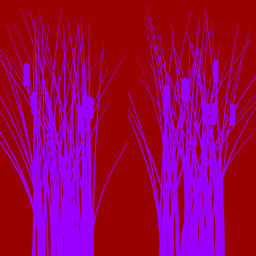
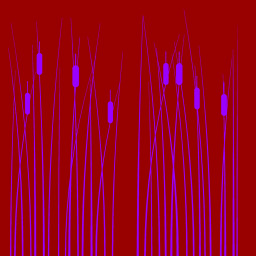
thin reed and cattail clumps, darker waxy lily pads with flowers, precipitation shader

diff --git a/tools/make_foliage.py b/tools/make_foliage.py
@@ -681,7 +681,7 @@ def fern(name, seed, src, size=1.0, fronds=13, tint=(0.62, 0.72, 0.5)):
     return m.save(name)
 
 
-def reeds(name, seed, size=1.7, cards=5):
+def reeds(name, seed, size=1.7, clumps=4):
     rng = np.random.default_rng(seed)
     T = TILE // 2
     W, H = T // 2, T
@@ -693,39 +693,44 @@ def reeds(name, seed, size=1.7, cards=5):
     for k in range(2):
         im = Image.new("RGBA", (W * 4, H * 4), (0, 0, 0, 0))
         dr = ImageDraw.Draw(im)
-        for b in range(60):
-            x0 = W * 4 * rng.uniform(0.25, 0.75)
-            lean = rng.normal(0, 0.35) * W * 4
-            top = H * 4 * rng.uniform(0.02, 0.4)
-            wdt = W * 4 * rng.uniform(0.006, 0.014)
-            col = np.array([rng.uniform(70, 105), rng.uniform(88, 118), rng.uniform(40, 62)])
-            if rng.random() < 0.3:
-                col = col * np.array([1.25, 1.05, 0.85])
+        nb = 16
+        for b in range(nb):
+            x0 = W * 4 * (0.08 + 0.84 * (b + rng.uniform(-0.3, 0.3)) / nb)
+            lean = rng.normal(0, 0.12) * W * 4
+            top = H * 4 * rng.uniform(0.02, 0.35)
+            wdt = W * 4 * rng.uniform(0.004, 0.008)
+            g = rng.uniform(0.75, 1.1)
+            col = np.array([62, 88, 40]) * g
+            if rng.random() < 0.25:
+                col = np.array([128, 116, 70]) * g
             pts = []
-            for i in range(9):
-                t = i / 8
-                cx = x0 + lean * t * t
-                cy = H * 4 - (H * 4 - top) * t
-                pts.append((cx, cy, wdt * (1 - t * 0.9)))
-            poly = [(p[0] - p[2], p[1]) for p in pts] + [(p[0] + p[2], p[1]) for p in pts[::-1]]
-            dr.polygon(poly, fill=tuple(int(c) for c in col * rng.uniform(0.8, 1.15)) + (255,))
-            if b % 11 == 0:
-                cx, cy = pts[6][0], pts[6][1]
-                dr.rounded_rectangle([cx - wdt * 2.6, cy - H * 0.3, cx + wdt * 2.6, cy + H * 0.05],
-                                     radius=int(wdt * 2), fill=(92, 58, 34, 255))
+            for i in range(10):
+                t = i / 9
+                pts.append((x0 + lean * t * t, H * 4 - (H * 4 - top) * t, wdt * (1 - t * 0.92)))
+            poly = [(p_[0] - p_[2], p_[1]) for p_ in pts] + [(p_[0] + p_[2], p_[1]) for p_ in pts[::-1]]
+            dr.polygon(poly, fill=tuple(int(c) for c in col) + (255,))
+            if b % 4 == 1:
+                cx, cy = pts[7][0], pts[7][1]
+                hw = wdt * 3.2
+                dr.rounded_rectangle([cx - hw, cy - H * 0.32, cx + hw, cy + H * 0.02], radius=int(hw), fill=(78, 48, 28, 255))
+                dr.line([(cx, cy - H * 0.32), (cx, cy - H * 0.5)], fill=(90, 80, 52, 255), width=max(1, int(wdt)))
         im = im.resize((W, H), Image.LANCZOS)
         al, nm, rm = rgba_to_maps(im, 0.6)
         tile[:, k * W:(k + 1) * W] = al
         ntile[:, k * W:(k + 1) * W] = nm
         rtile[:, k * W:(k + 1) * W] = rm
     m = Mesh()
-    for q in range(cards):
-        ang = q * math.pi / cards + rng.uniform(0, 0.3)
-        right = np.array([math.cos(ang), 0, math.sin(ang)])
-        k = int(rng.integers(0, 2))
-        s_ = size * rng.uniform(0.85, 1.15)
-        m.card(np.array([rng.normal(0, 0.12), 0, rng.normal(0, 0.12)]), right, np.array([0, 1.0, 0]), s_ * 0.5, s_,
-               (k * 0.5, 0.0, (k + 1) * 0.5, 1.0), np.array([0, 1.0, 0]), sway=1.0, rows=3)
+    for c in range(clumps):
+        base = np.array([rng.normal(0, 0.4), 0.0, rng.normal(0, 0.4)]) if c else np.zeros(3)
+        for q in range(3):
+            ang = q * math.pi / 3 + rng.uniform(0, 0.6)
+            right = np.array([math.cos(ang), 0, math.sin(ang)])
+            up = np.array([rng.normal(0, 0.08), 1.0, rng.normal(0, 0.08)])
+            up /= np.linalg.norm(up)
+            k = int(rng.integers(0, 2))
+            s_ = size * rng.uniform(0.75, 1.15)
+            m.card(base, right, up, s_ * 0.45, s_, (k * 0.5, 0.0, (k + 1) * 0.5, 1.0), np.array([0, 1.0, 0]), sway=1.0,
+                   rows=3)
     save_tile(ROOT / "loophole" / "data" / "tiles", name, tile, ntile, rtile)
     return m.save(name)
 
@@ -733,24 +738,24 @@ def reeds(name, seed, size=1.7, cards=5):
 def lilypad(name, seed, pads=5):
     rng = np.random.default_rng(seed)
     S = 512
-    im = Image.new("RGB", (S, S), (40, 80, 30))
+    im = Image.new("RGB", (S, S), (22, 44, 18))
     dr = ImageDraw.Draw(im)
     for r in range(S // 2, 0, -4):
         f = r / (S / 2)
-        dr.ellipse([S / 2 - r, S / 2 - r, S / 2 + r, S / 2 + r], fill=(int(46 + 34 * f), int(92 + 40 * f), int(30 + 12 * f)))
+        dr.ellipse([S / 2 - r, S / 2 - r, S / 2 + r, S / 2 + r], fill=(int(30 + 22 * f), int(56 + 22 * f), int(20 + 8 * f)))
     for a in np.linspace(0, 2 * math.pi, 22, endpoint=False):
-        dr.line([(S / 2, S / 2), (S / 2 + math.cos(a) * S * 0.48, S / 2 + math.sin(a) * S * 0.48)], fill=(110, 150, 70),
-                width=3)
-    dr.rectangle([0, 0, S * 0.08, S * 0.08], fill=(236, 226, 228))
+        dr.line([(S / 2, S / 2), (S / 2 + math.cos(a) * S * 0.48, S / 2 + math.sin(a) * S * 0.48)], fill=(52, 78, 34),
+                width=2)
+    dr.rectangle([0, 0, S * 0.08, S * 0.08], fill=(238, 206, 214))
     al = np.asarray(im, np.float32) / 255.0
     nm = np.zeros_like(al)
     nm[..., :2] = 0.5
     nm[..., 2] = 1.0
-    rm = np.stack([np.full(al.shape[:2], 0.3), np.zeros(al.shape[:2]), np.zeros(al.shape[:2])], -1)
+    rm = np.stack([np.full(al.shape[:2], 0.25), np.zeros(al.shape[:2]), np.zeros(al.shape[:2])], -1)
     m = Mesh()
     up = np.array([0.0, 1.0, 0.0])
     for p in range(pads):
-        c = np.array([rng.normal(0, 0.35), 0.0, rng.normal(0, 0.35)]) if p else np.zeros(3)
+        c = np.array([rng.normal(0, 0.28), p * 0.002, rng.normal(0, 0.28)]) if p else np.zeros(3)
         r = rng.uniform(0.16, 0.26)
         notch = rng.uniform(0, 2 * math.pi)
         segs = 14
@@ -761,19 +766,19 @@ def lilypad(name, seed, pads=5):
             pb = c + np.array([math.cos(a1), 0, math.sin(a1)]) * r
             uv = lambda q: (0.5 + (q[0] - c[0]) / r * 0.48 * 0.75, 0.5 + (q[2] - c[2]) / r * 0.48 * 0.75)
             m.tri([c, pb, pa], [up] * 3, [uv(c), uv(pb), uv(pa)], 1.0, [0.0] * 3)
-    fc = np.array([0.1, 0.03, 0.12])
-    for i in range(7):
-        a = i * 2 * math.pi / 7
-        d = np.array([math.cos(a), 0, math.sin(a)])
-        side = np.array([-d[2], 0, d[0]])
-        tip = fc + d * 0.07 + up * 0.06
-        q = [fc + side * 0.02, fc - side * 0.02, tip]
-        nrm = np.cross(q[1] - q[0], q[2] - q[0])
-        nrm = nrm / np.linalg.norm(nrm)
-        if nrm[1] < 0:
-            q = [q[1], q[0], q[2]]
-            nrm = -nrm
-        m.tri(q, [nrm] * 3, [(0.04, 0.04)] * 3, 1.0, [0.0] * 3)
+    for fc in (np.array([0.1, 0.03, 0.12]), np.array([-0.3, 0.03, -0.2])):
+        for i in range(7):
+            ang = i * 2 * math.pi / 7
+            d = np.array([math.cos(ang), 0, math.sin(ang)])
+            side = np.array([-d[2], 0, d[0]])
+            tip = fc + d * 0.07 + up * 0.06
+            q = [fc + side * 0.02, fc - side * 0.02, tip]
+            nrm = np.cross(q[1] - q[0], q[2] - q[0])
+            nrm = nrm / np.linalg.norm(nrm)
+            if nrm[1] < 0:
+                q = [q[1], q[0], q[2]]
+                nrm = -nrm
+            m.tri(q, [nrm] * 3, [(0.04, 0.04)] * 3, 1.0, [0.0] * 3)
     save_tile(ROOT / "loophole" / "data" / "tiles", name, al, nm, rm)
     return m.save(name)
 

diff --git a/loophole/shaders.py b/loophole/shaders.py
@@ -1964,6 +1964,57 @@ void main() {
 """
 
 
+PRECIP_VS = HEAD + CAM_U + PROJECT + """
+attribute vec4 aSeed;
+attribute vec2 aCorner;
+uniform float u_timer;
+uniform vec4 uPrec;
+uniform vec4 uWindP;
+varying vec2 vC;
+varying float vA;
+varying vec3 vW;
+void main() {
+  float snow = uPrec.y;
+  vec3 box = vec3(22.0, 14.0, 22.0);
+  float sp = mix(11.0, 1.1, snow) * (0.8 + 0.4 * aSeed.w);
+  vec3 drift = vec3(uWindP.x, 0.0, uWindP.y) * uWindP.z * mix(1.2, 0.9, snow);
+  vec3 p = aSeed.xyz * box - drift * u_timer + vec3(0.0, sp * u_timer, 0.0);
+  p.y = -p.y;
+  vec3 c0 = uCP - box * 0.5;
+  p = c0 + mod(p - c0, box);
+  if (snow > 0.5) {
+    p.x += sin(u_timer * 1.3 + aSeed.w * 30.0) * 0.35;
+    p.z += cos(u_timer * 1.1 + aSeed.x * 30.0) * 0.35;
+  }
+  vec3 vel = normalize(vec3(drift.x, -sp, drift.z));
+  vec3 toC = normalize(uCP - p);
+  vec3 side = normalize(cross(vel, toC));
+  vec3 up2 = snow > 0.5 ? normalize(cross(toC, side)) : vel;
+  float sz = snow > 0.5 ? 0.035 : 0.006;
+  float len = snow > 0.5 ? 0.035 : 0.38;
+  float show = step(aSeed.w, uPrec.x);
+  vec3 w = p + (side * aCorner.x * sz + up2 * aCorner.y * len) * show;
+  vC = aCorner;
+  vA = show * (1.0 - smoothstep(6.0, 11.0, length(p - uCP)));
+  vW = w;
+  gl_Position = project(w);
+}
+"""
+
+PRECIP_FS = HEAD + """
+uniform vec4 uPrec;
+uniform vec3 uPCol;
+varying vec2 vC;
+varying float vA;
+varying vec3 vW;
+void main() {
+  float r = uPrec.y > 0.5 ? dot(vC, vC) : vC.x * vC.x;
+  float g = (1.0 - smoothstep(0.3, 1.0, r)) * vA * (uPrec.y > 0.5 ? 0.9 : 0.35 * (1.0 - abs(vC.y)));
+  if (g < 0.01) discard;
+  gl_FragColor = vec4(sqrt(clamp(uPCol * 0.25, 0.0, 1.0)) * g, g);
+}
+"""
+
 TEXT_VS = HEAD + """
 attribute float aSlot;
 attribute vec2 aCorner;
@@ -1999,6 +2050,7 @@ void main() {
 
 SHADERS = {k: (merge(v, f), f) for k, (v, f) in {
     "text": (TEXT_VS, TEXT_FS),
+    "precip": (PRECIP_VS, PRECIP_FS),
     "portal": (PORTAL_VS, PORTAL_FS),
     "world": (WORLD_VS, WORLD_FS),
     "sky": (SKY_VS, SKY_FS),

diff --git a/loophole/build.py b/loophole/build.py
@@ -1201,7 +1201,7 @@ def assemble(game, L, lms, gcost, gids, broadcasts, world_path, out, log, used_i
     eng_lists = {}
     from . import mesh as M
     meshes = {"QUAD": M.quad_mesh(), "DUST": M.particles(320, 5), "IMPACT": M.particles(56, 21),
-              "VENTP": M.particles(140, 13), "GRASS": M.grass_cards(3000, 9), "TEXT": M.text_quads(128), "DISC": M.portal_disc()}
+              "VENTP": M.particles(140, 13), "GRASS": M.grass_cards(3000, 9), "TEXT": M.text_quads(128), "PRECIP": M.particles(2400, 31), "DISC": M.portal_disc()}
     for name, m in meshes.items():
         eng_lists[proj.uid("l")] = [name, m.items()]
     eng_lists[proj.uid("l")] = ["IC", geo.index_items(geo.CHUNK)]
